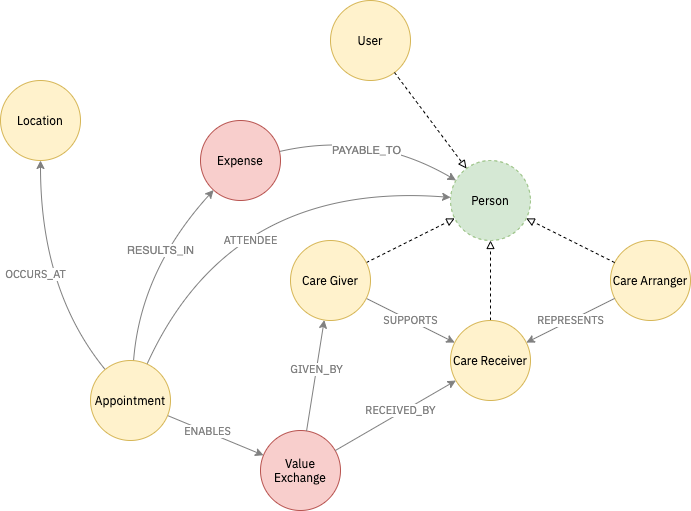
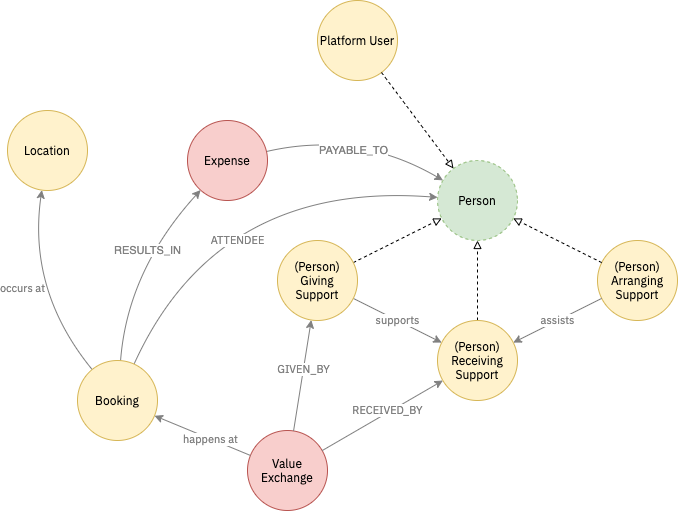
GitBook: [master] one page and 5 assets modified

diff --git a/platform-technical-design/data-models/graph-schema.md b/platform-technical-design/data-models/graph-schema.md
@@ -34,23 +34,23 @@ Please note, the items in a red colour \(namely Value Exchange and Expense\) are
 
 The core of the model is a representation of a person who is then expressed in a series of different ways by the Hats that they wear. These _Hats_ can be seen in the model as they link directly to the 'abstract' Person interface with a dotted line and an open arrowhead.
 
-### User
+### Platform User
 
 The user is the first 'hat' for every person registered in the system. This enables the creation of the core of the profile, and will be assigned when any user registers.
 
-### Giving
+### \(Person\) Giving Support
 
-This hat is applied to people who provide care in the system, regardless of whether this is paid or unpaid care and support. This may be resolved by a separate label which segregates these two whilst enabling one person to do both \(for example, giving care for a family member and also offering paid care and support to others\).
+This hat is applied to people who are giving support in the system, regardless of whether this is paid or unpaid care and support. This may be resolved by a separate label which segregates these two whilst enabling one person to do both \(for example, giving care for a family member and also offering paid care and support to others\).
 
 People: Giving: Paid or People: Giving: Unpaid.
 
-### Receiving
+### \(Person\) Receiving Support
 
-This hat is worn by people who receive care and support within the system. 
+This hat is worn by people who are getting support within the platform. 
 
-### Arranging
+### \(Person\) Arranging Support
 
-This hat represents people who are responsible for arranging care on behalf of a person receiving. They can be said to represent that person and to work in their interests. This role is extremely variable, ranging from an oversight and information access through to active management of the bookings, introductions and reviews. It is best represented by the [Team Co-ordinator](https://app.gitbook.com/@eccoo/s/policies/safe-and-well/roles-and-responsibilities/the-team/team-co-ordinator) role description. 
+This hat represents people who are responsible for arranging care on behalf of a person receiving support. They can be said to represent that person and to work in their interests. This role is extremely variable, ranging from an oversight and information access through to active management of the bookings, introductions and reviews. It is best represented by the [Team Co-ordinator](https://app.gitbook.com/@eccoo/s/policies/safe-and-well/roles-and-responsibilities/the-team/team-co-ordinator) role description. 
 
 Note the person arranging may also be giving care and support to the person receiving and the person receiving may also be arranging their own care and support and giving or arranging support for others.
 
@@ -66,17 +66,21 @@ A location represents a physical or a virtual address \(WhatsApp group, phone ca
 
 This may not actually form part of the graph - but it is a recognition that the main thing to flow from an appointment is that some value is exchanged in terms of support or care given and transactions made. This will need to be captured somehow.
 
+{% hint style="warning" %}
+I wonder if Value Exchange is a proxy for 'Support' within the system. In which case, this should be named Support!
+{% endhint %}
+
 ### Expense
 
-This is the representation of an out of pocket expense to be paid back to a user. In most cases, this will be a Person Giving.
+This is the representation of an out of pocket expense to be paid back to a user. In most cases, this will be a Person Giving Support.
 
 ## Other concepts to explore
 
 The following concepts are likely to be needed, but are as yet ill defined.
 
 * Contact Details
-* Notes, shared with the person receiving's Team
-* Profile information for both person giving and person receiving
+* Notes, shared with the person getting support's Team
+* Profile information for both person giving support and person getting support
 * Review of how the booking went
 * Messages to other people in the person's Team
 
